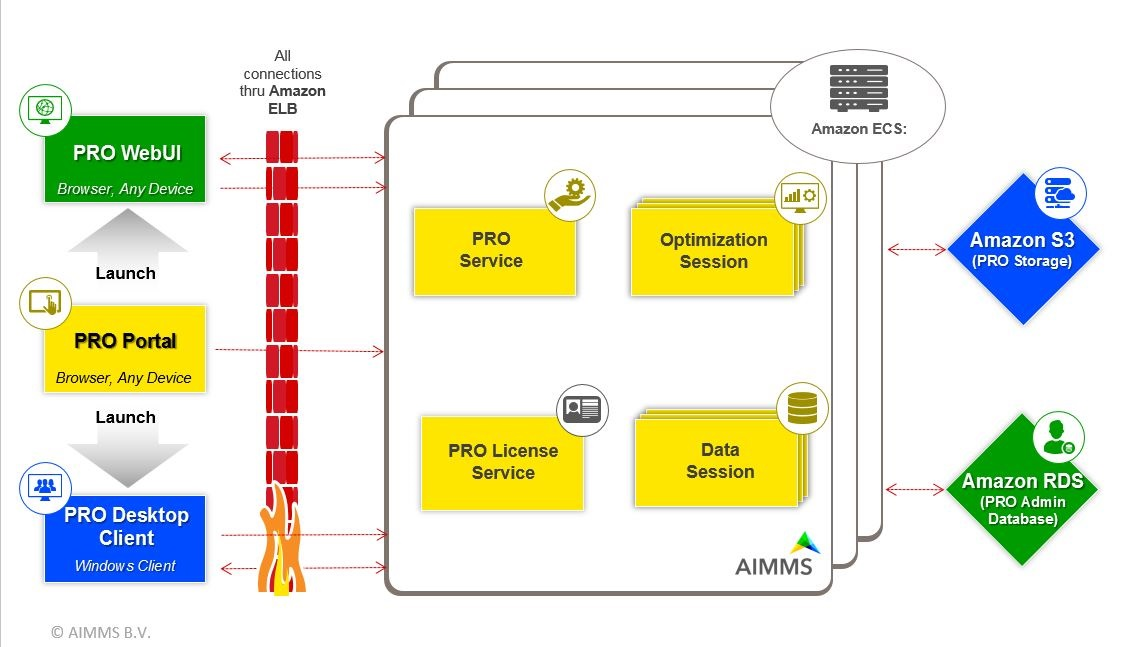
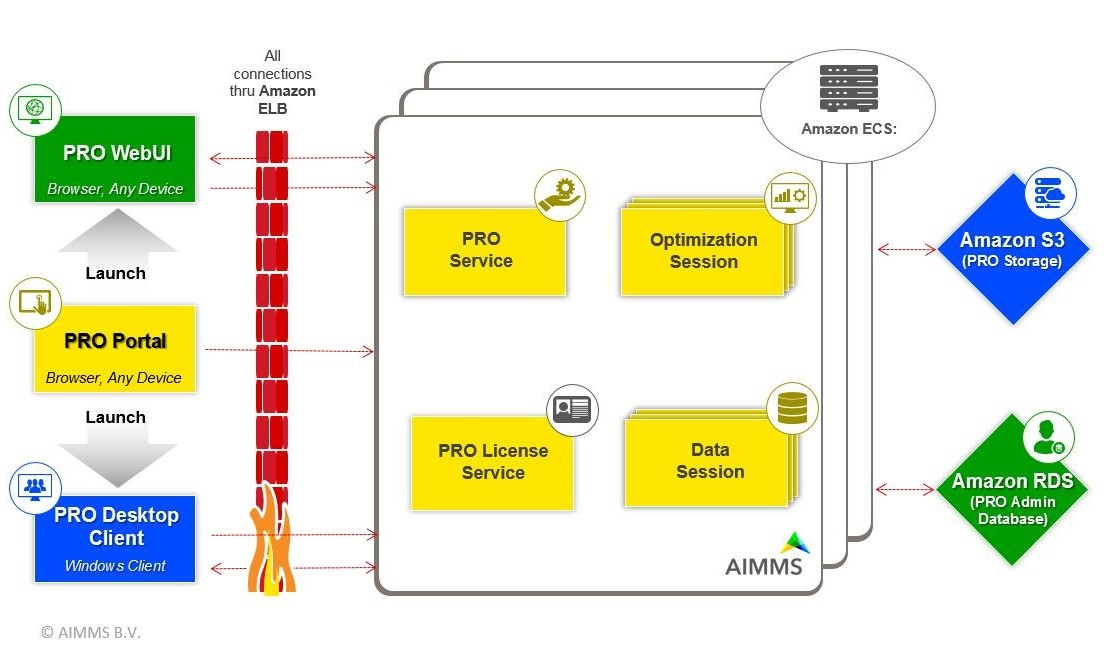
removed redundant line in cloud/architecture.rst image is not clickable anymore adjusted general-architecture-cloud_v1.jpg crop

diff --git a/cloud/architecture.rst b/cloud/architecture.rst
@@ -1,7 +1,7 @@
 General Architecture
 ====================
 
-To provide you with a better understanding of what's going on in an AIMMS Cloud Platform setup in terms of communication between the various components, we created the following schema. Please click on it to see a larger version.
+To provide you with a better understanding of what's going on in an AIMMS Cloud Platform setup in terms of communication between the various components, we created the following schema. 
 
 .. image:: images/general-architecture-cloud_v1.jpg
     :align: center
